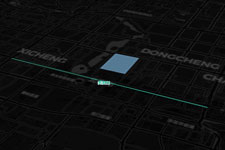
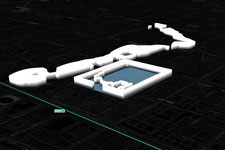
添加ExtrudePolygonLayer

diff --git a/src/components/layer/layer_WebGL_Layer.vue b/src/components/layer/layer_WebGL_Layer.vue
@@ -12,6 +12,7 @@ import {
   PointLayer,
   LineStringLayer,
   PolygonLayer,
+  ExtrudePolygonLayer,
 } from "@maptalks/gl-layers";
 export default {
   components: {},
@@ -173,18 +174,66 @@ export default {
     ).addTo(polyLayer);
 
     /**
+     * ExtrudePolygonLayer
+     * 其仅仅支持Polygon图形数据
+     */
+    const dataConfig = {
+      type: "3d-extrusion",
+      altitudeProperty: "height",
+      altitudeScale: 5,
+      defaultAltitude: 0,
+      top: true,
+      side: true,
+      // sideVerticalUVMode: 1
+      // textureYOrigin: 'bottom'
+    };
+    const material = {
+      baseColorFactor: [1, 1, 1, 1],
+      emissiveFactor: [1, 1, 1],
+      roughnessFactor: 0,
+      metalnessFactor: 0,
+      outputSRGB: 0,
+      uvScale: [0.001, 0.0013],
+    };
+    const extrudePolygonLayer = new ExtrudePolygonLayer("extrudePolygon0", {
+      dataConfig,
+      material,
+      geometryEvents: false,
+    });
+    //添加数据
+    fetch("data/json/data_Water.json")
+      .then((res) => res.json())
+      .then((geojson) => {
+        const polygons = maptalks.GeoJSON.toGeometry(geojson);
+        polygons.forEach((polygon) => {
+          polygon.setSymbol({
+            topPolygonFill: "#fff",
+            bottomPolygonFill: "#000",
+          });
+          polygon.setProperties({
+            height: 20,
+          });
+        });
+        extrudePolygonLayer.addGeometry(polygons);
+      });
+
+    /**
      * GroupGLLayer
      */
-    const groupLayer = new GroupGLLayer("group", [pointLayer, lineLayer, polyLayer], {
-      sceneConfig: {
-        environment: {
-          enable: true,
-          mode: 1,
-          level: 0,
-          brightness: 0,
+    const groupLayer = new GroupGLLayer(
+      "group",
+      [pointLayer, lineLayer, polyLayer, extrudePolygonLayer],
+      {
+        sceneConfig: {
+          environment: {
+            enable: true,
+            mode: 1,
+            level: 0,
+            brightness: 0,
+          },
         },
-      },
-    });
+      }
+    );
     groupLayer.addTo(this.map);
   },
 
